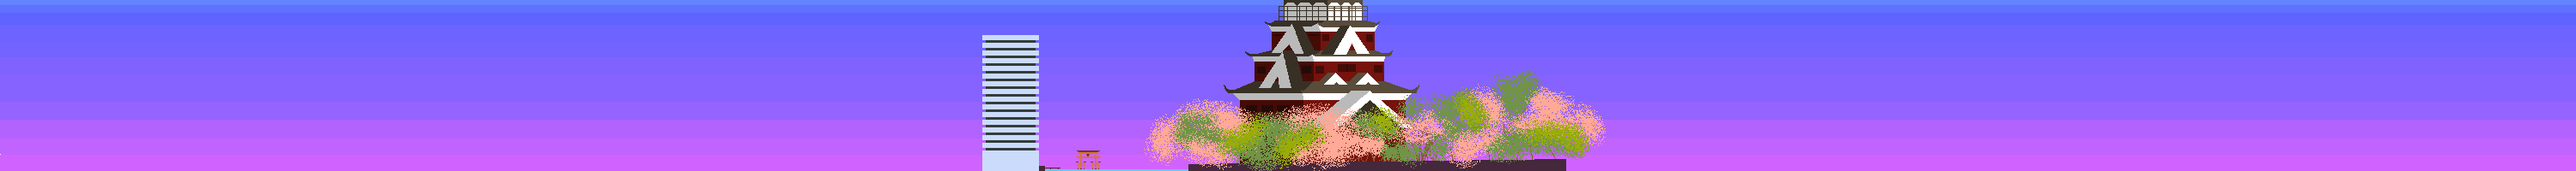
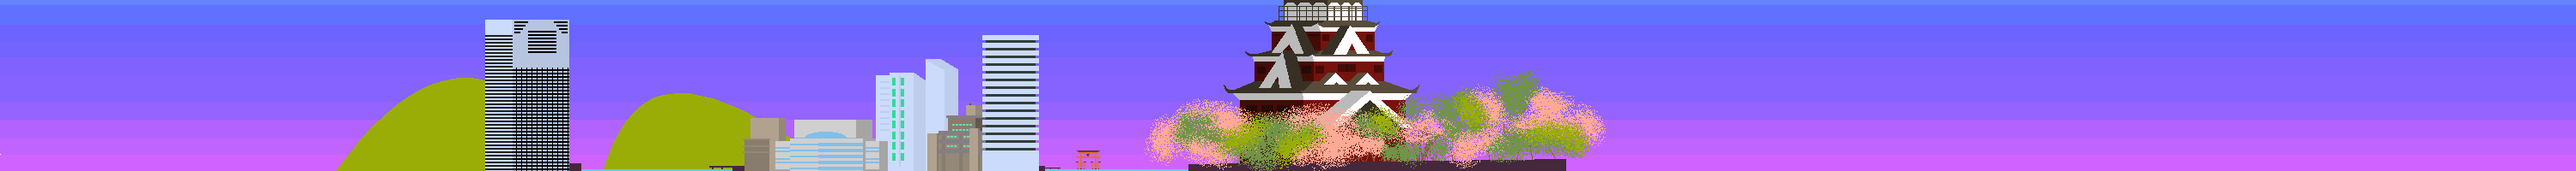
Assets added and Bourdeaux map (early alpha)

Changed region(s): [[0.124, 0.09, 0.403, 1.0]]

diff --git a/helpers/menus.c b/helpers/menus.c
@@ -449,7 +449,8 @@ int color_selection(){
 void redraw_map_selection(int op){
   int square_w = 500, square_h = 200;
   clear_display(BLUE, false);
-  draw_text(PIXEL_FONT, 22, YELLOW, (sw/2), 50, ALLEGRO_ALIGN_CENTRE, "LAS VEGAS", false);
+  draw_text(PIXEL_FONT, 28, YELLOW, sw/2, 20, ALLEGRO_ALIGN_CENTRE, "MAP SELECTION", false);
+  draw_text(PIXEL_FONT, 22, YELLOW, (sw/2), 100, ALLEGRO_ALIGN_CENTRE, "LAS VEGAS", false);
   al_draw_bitmap(LAS_VEGAS_ICON_BITMAP, (sw/2)-(square_w/2), (sh/2)-(square_h/2), 0);
   al_draw_rounded_rectangle((sw/2)-(square_w/2), (sh/2)-(square_h/2), (sw/2)+(square_w/2), (sh/2)+(square_h/2), 0, 0, colors[0], 5);
   al_flip_display();
@@ -480,19 +481,21 @@ void flip_map_selection(int op, bool go_right){
         else positions[i] += sw/60;
       }
       clear_display(BLUE, false);
+      draw_text(PIXEL_FONT, 28, YELLOW, sw/2, 20, ALLEGRO_ALIGN_CENTRE, "MAP SELECTION", false);
       // Lass Vegas
-      draw_text(PIXEL_FONT, 22, YELLOW, positions[0]+(sw/2), 50, ALLEGRO_ALIGN_CENTRE, "LAS VEGAS", false);
+      draw_text(PIXEL_FONT, 22, YELLOW, positions[0]+(sw/2), 100, ALLEGRO_ALIGN_CENTRE, "LAS VEGAS", false);
       al_draw_bitmap(LAS_VEGAS_ICON_BITMAP, positions[0]+(sw/2)-(square_w/2), (sh/2)-(square_h/2), 0);
       al_draw_rounded_rectangle(positions[0]+(sw/2)-(square_w/2), (sh/2)-(square_h/2), positions[0]+(sw/2)+(square_w/2), (sh/2)+(square_h/2), 0, 0, colors[0], 5);
       // Bordeaux
-      draw_text(PIXEL_FONT, 22, YELLOW, positions[1]+(sw/2), 50, ALLEGRO_ALIGN_CENTRE, "BORDEAUX", false);
+      draw_text(PIXEL_FONT, 22, YELLOW, positions[1]+(sw/2), 100, ALLEGRO_ALIGN_CENTRE, "BORDEAUX", false);
+      al_draw_bitmap(BORDEAUX_ICON_BITMAP, positions[1]+(sw/2)-(square_w/2), (sh/2)-(square_h/2), 0);
       al_draw_rounded_rectangle(positions[1]+(sw/2)-(square_w/2), (sh/2)-(square_h/2), positions[1]+(sw/2)+(square_w/2), (sh/2)+(square_h/2), 0, 0, colors[1], 5);
       // Hiroshima
-      draw_text(PIXEL_FONT, 22, YELLOW, positions[2]+(sw/2), 50, ALLEGRO_ALIGN_CENTRE, "Hiroshima", false);
+      draw_text(PIXEL_FONT, 22, YELLOW, positions[2]+(sw/2), 100, ALLEGRO_ALIGN_CENTRE, "Hiroshima", false);
       al_draw_bitmap(HIROSHIMA_ICON_BITMAP, positions[2]+(sw/2)-(square_w/2), (sh/2)-(square_h/2), 0);
       al_draw_rounded_rectangle(positions[2]+(sw/2)-(square_w/2), (sh/2)-(square_h/2), positions[2]+(sw/2)+(square_w/2), (sh/2)+(square_h/2), 0, 0, colors[2], 5);
       // Frankfurt
-      draw_text(PIXEL_FONT, 22, YELLOW, positions[3]+(sw/2), 50, ALLEGRO_ALIGN_CENTRE, "FRANKFURT", false);
+      draw_text(PIXEL_FONT, 22, YELLOW, positions[3]+(sw/2), 100, ALLEGRO_ALIGN_CENTRE, "FRANKFURT", false);
       al_draw_bitmap(FRANKFURT_ICON_BITMAP, positions[3]+(sw/2)-(square_w/2), (sh/2)-(square_h/2), 0);
       al_draw_rounded_rectangle(positions[3]+(sw/2)-(square_w/2), (sh/2)-(square_h/2), positions[3]+(sw/2)+(square_w/2), (sh/2)+(square_h/2), 0, 0, colors[3], 5);
       al_flip_display();
@@ -541,10 +544,8 @@ int map_selection(){
           }
           break;
         case ALLEGRO_KEY_ENTER:
-          if(op != 1){
-            play_sample(MENU_SELECT_SOUND);
-            return op;
-          }
+          play_sample(MENU_SELECT_SOUND);
+          return op;
       }
     }
   }

diff --git a/helpers/display.c b/helpers/display.c
@@ -20,6 +20,7 @@ ALLEGRO_BITMAP *LAS_VEGAS_ICON_BITMAP = NULL;
 ALLEGRO_BITMAP *HIROSHIMA_LANDSCAPE_BITMAP = NULL;
 ALLEGRO_BITMAP *HIROSHIMA_ICON_BITMAP = NULL;
 ALLEGRO_BITMAP *BORDEAUX_LANDSCAPE_BITMAP = NULL;
+ALLEGRO_BITMAP *BORDEAUX_ICON_BITMAP = NULL;
 ALLEGRO_BITMAP *FRANKFURT_LANDSCAPE_BITMAP = NULL;
 ALLEGRO_BITMAP *FRANKFURT_ICON_BITMAP = NULL;
 
@@ -75,7 +76,8 @@ void init_bitmaps(){
   LAS_VEGAS_ICON_BITMAP = al_load_bitmap("assets/images/landscapes/las_vegas_icon.png");
   HIROSHIMA_LANDSCAPE_BITMAP = al_load_bitmap("assets/images/landscapes/hiroshima_landscape.png");
   HIROSHIMA_ICON_BITMAP = al_load_bitmap("assets/images/landscapes/hiroshima_icon.png");
-  // BORDEAUX_LANDSCAPE_BITMAP = al_load_bitmap("assets/images/landscapes/bordeaux_landscape.png");
+  BORDEAUX_LANDSCAPE_BITMAP = al_load_bitmap("assets/images/landscapes/bordeaux_landscape.png");
+  BORDEAUX_ICON_BITMAP = al_load_bitmap("assets/images/landscapes/bordeaux_icon.png");
   FRANKFURT_LANDSCAPE_BITMAP = al_load_bitmap("assets/images/landscapes/frankfurt_landscape.png");
   FRANKFURT_ICON_BITMAP = al_load_bitmap("assets/images/landscapes/frankfurt_icon.png");
 
@@ -266,8 +268,9 @@ void destroy_bitmaps(){
   al_destroy_bitmap(LAS_VEGAS_LANDSCAPE_BITMAP);
   al_destroy_bitmap(LAS_VEGAS_ICON_BITMAP);
   al_destroy_bitmap(BORDEAUX_LANDSCAPE_BITMAP);
+  al_destroy_bitmap(BORDEAUX_ICON_BITMAP);
   al_destroy_bitmap(HIROSHIMA_LANDSCAPE_BITMAP);
-  al_destroy_bitmap(BORDEAUX_LANDSCAPE_BITMAP);
+  al_destroy_bitmap(HIROSHIMA_ICON_BITMAP);
   al_destroy_bitmap(FRANKFURT_LANDSCAPE_BITMAP);
   al_destroy_bitmap(FRANKFURT_ICON_BITMAP);
 

diff --git a/helpers/display.h b/helpers/display.h
@@ -22,12 +22,13 @@ extern ALLEGRO_BITMAP *ROAD_SIGN; // 150x150
 extern ALLEGRO_BITMAP *ROCK_BITMAP; // 140x132
 
 // Landscapes
-extern ALLEGRO_BITMAP *LAS_VEGAS_LANDSCAPE_BITMAP;
+extern ALLEGRO_BITMAP *LAS_VEGAS_LANDSCAPE_BITMAP; // 3000x200
 extern ALLEGRO_BITMAP *LAS_VEGAS_ICON_BITMAP; // 500x200
-extern ALLEGRO_BITMAP *HIROSHIMA_LANDSCAPE_BITMAP;
+extern ALLEGRO_BITMAP *HIROSHIMA_LANDSCAPE_BITMAP; // 3000x200
 extern ALLEGRO_BITMAP *HIROSHIMA_ICON_BITMAP; // 500x200
-extern ALLEGRO_BITMAP *BORDEAUX_LANDSCAPE_BITMAP;
-extern ALLEGRO_BITMAP *FRANKFURT_LANDSCAPE_BITMAP;
+extern ALLEGRO_BITMAP *BORDEAUX_LANDSCAPE_BITMAP; // 3000x200
+extern ALLEGRO_BITMAP *BORDEAUX_ICON_BITMAP; // 500x200
+extern ALLEGRO_BITMAP *FRANKFURT_LANDSCAPE_BITMAP; // 3000x200
 extern ALLEGRO_BITMAP *FRANKFURT_ICON_BITMAP; // 500x200
 
 // Cars

diff --git a/helpers/game.c b/helpers/game.c
@@ -361,7 +361,7 @@ int show_leaderboard(){
   sprintf(duration, "RACE DURATION: %.2fs", race_time);
   stop_music(music);
   if(placement <= 3) music = set_music(QUALIFIED_MUSIC);
-  else music = set_music(FRANKFURT_MUSIC);
+  else music = set_music(DISQUALIFIED_MUSIC);
   start_music(music, false);
   clear_display(BLUE, false);
   if(placement <= 3){

diff --git a/helpers/sounds.h b/helpers/sounds.h
@@ -18,6 +18,7 @@
 #define FRANKFURT_MUSIC "assets/music/05_frankfurt.ogg"
 #define QUALIFIED_MUSIC "assets/music/06_qualified.ogg"
 #define ENDING_MUSIC "assets/music/07_ending_theme.ogg"
+#define DISQUALIFIED_MUSIC "assets/music/08_disqualified.ogg"
 
 extern ALLEGRO_SAMPLE *COLLISION_SOUND;
 extern ALLEGRO_SAMPLE *READY_SOUND;

diff --git a/helpers/maps.c b/helpers/maps.c
@@ -33,7 +33,7 @@ ALLEGRO_COLOR get_map_color(int map){
   switch (map) {
     case 0: return LAS_VEGAS_SOIL;
     case 1: return GREEN;
-      case 2: return HIROSHIMA_SOIL;
+    case 2: return HIROSHIMA_SOIL;
     case 3: return FRANKFURT_SOIL;
   }
 }
